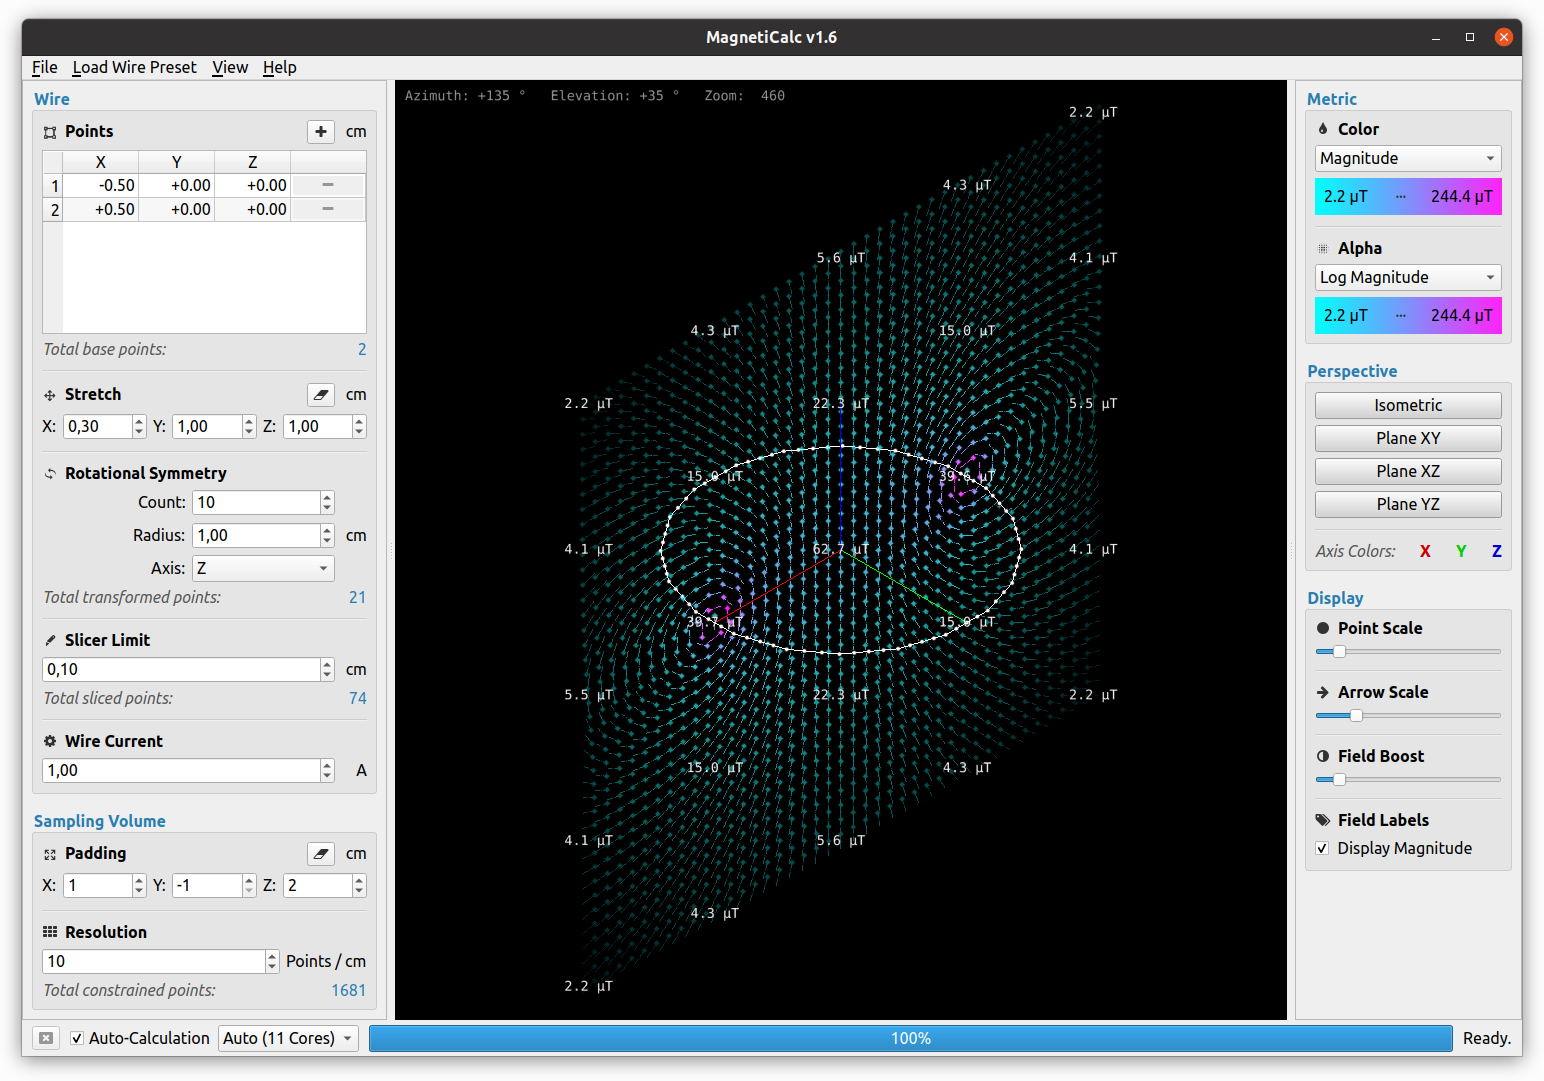
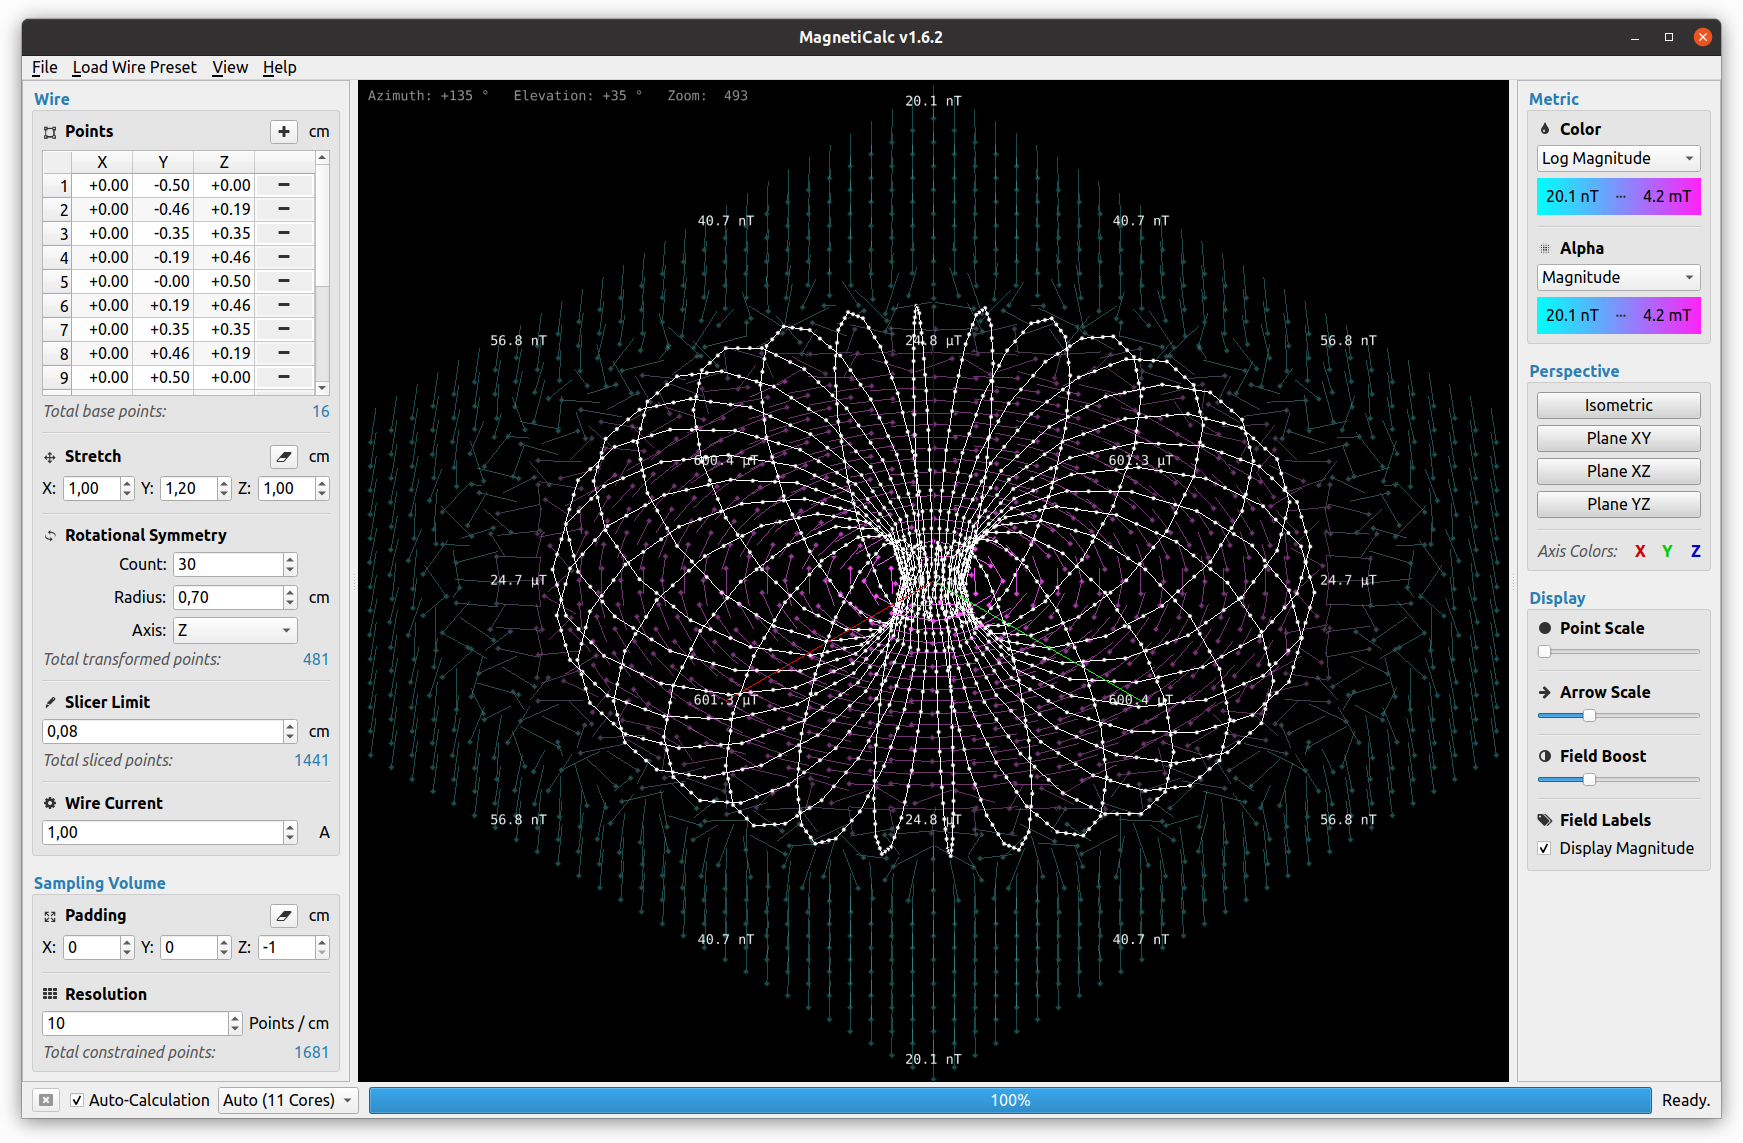
Amended README. Renamed square loop wire presets, added four solenoid presets.

Changed region(s): [[0.0, 0.0, 0.9948, 0.9769]]

diff --git a/magneticalc/Wire.py b/magneticalc/Wire.py
@@ -34,9 +34,9 @@ class Wire:
         ]
     }
 
-    # Preset: A single loop with offset connections.
-    SingleLoop_Offset = {
-        "id": "Single Loop (offset)",
+    # Preset: A single square loop with offset connections.
+    SingleSquareLoop_Offset = {
+        "id": "Single Square Loop (offset)",
         "points": [
             [-1/2, +1/2, +1/2],
             [+0/2, +1/2, +1/2],
@@ -48,9 +48,9 @@ class Wire:
         ]
     }
 
-    # Preset: A single loop with centered connections.
-    SingleLoop_Centered = {
-        "id": "Single Loop (centered)",
+    # Preset: A single square loop with centered connections.
+    SingleSquareLoop_Centered = {
+        "id": "Single Square Loop (centered)",
         "points": [
             [-1/2, +1/2, +0/2],
             [+0/2, +1/2, +0/2],
@@ -63,9 +63,9 @@ class Wire:
         ]
     }
 
-    # Preset: A "compensated" double loop with offset connections.
-    CompensatedDoubleLoop_Offset = {
-        "id": "Compensated Double Loop (offset)",
+    # Preset: A "compensated" double square loop with offset connections.
+    CompensatedDoubleSquareLoop_Offset = {
+        "id": "Compensated Double Square Loop (offset)",
         "points": [
             [-3/6, +1/2, +1/2],
             [-1/6, +1/2, +1/2],
@@ -82,9 +82,9 @@ class Wire:
         ]
     }
 
-    # Preset: A "compensated" double loop with centered connections.
-    CompensatedDoubleLoop_Centered = {
-        "id": "Compensated Double Loop (centered)",
+    # Preset: A "compensated" double square loop with centered connections.
+    CompensatedDoubleSquareLoop_Centered = {
+        "id": "Compensated Double Square Loop (centered)",
         "points": [
             [-3/6, +1/2, +0/2],
             [-1/6, +1/2, +0/2],
@@ -103,13 +103,99 @@ class Wire:
         ]
     }
 
+    # Preset: A single circular loop with offset connections.
+    SingleCircularLoop_Offset = {
+        "id": "Single Circular Loop (offset)",
+        "points": [
+            [
+                0,
+                -np.cos(2 * np.pi * i / 16) / 2,
+                +np.sin(2 * np.pi * i / 16) / 2
+            ]
+            for i in range(16)
+        ]
+    }
+
+    # Preset: A solenoid of 4 circular loops.
+    SolenoidCircularLoops4 = {
+        "id": "Solenoid: 4 circular loops",
+        "points": [
+            [
+                i / 64 - 1 / 2,
+                -np.cos(2 * np.pi * i / 16) / 2,
+                +np.sin(2 * np.pi * i / 16) / 2
+            ]
+            for i in range(64)
+        ]
+    }
+
+    # Preset: A solenoid of 8 circular loops.
+    SolenoidCircularLoops8 = {
+        "id": "Solenoid: 8 circular loops",
+        "points": [
+            [
+                i / 128 - 1 / 2,
+                -np.cos(2 * np.pi * i / 16) / 2,
+                +np.sin(2 * np.pi * i / 16) / 2
+            ]
+            for i in range(128)
+        ]
+    }
+
+    # Preset: A compensated solenoid of 2x 4 circular loops.
+    CompensatedSolenoidCircularLoops4 = {
+        "id": "Compensated Solenoid: 2x 4 circular loops",
+        "points": [
+            [
+                i / 64 - 1 - 0.125 / 2,
+                -np.cos(+2 * np.pi * i / 16) / 2,
+                +np.sin(+2 * np.pi * i / 16) / 2
+            ]
+            for i in range(64)
+        ] +
+        [
+            [
+                i / 64 + 0.125 / 2,
+                -np.cos(-2 * np.pi * (i + 1) / 16) / 2,
+                +np.sin(-2 * np.pi * (i + 1) / 16) / 2
+            ]
+            for i in range(64)
+        ]
+    }
+
+    # Preset: A compensated solenoid of 2x 8 circular loops.
+    CompensatedSolenoidCircularLoops8 = {
+        "id": "Compensated Solenoid: 2x 8 circular loops",
+        "points": [
+            [
+                i / 128 - 1.125,
+                -np.cos(+2 * np.pi * i / 16) / 2,
+                +np.sin(+2 * np.pi * i / 16) / 2
+            ]
+            for i in range(128)
+        ] +
+        [
+            [
+                i / 128 + 0.125,
+                -np.cos(-2 * np.pi * (i + 1) / 16) / 2,
+                +np.sin(-2 * np.pi * (i + 1) / 16) / 2
+            ]
+            for i in range(128)
+        ]
+    }
+
     # List of all above presets
     Presets = [
         StraightLine,
-        SingleLoop_Offset,
-        SingleLoop_Centered,
-        CompensatedDoubleLoop_Offset,
-        CompensatedDoubleLoop_Centered
+        SingleSquareLoop_Offset,
+        SingleSquareLoop_Centered,
+        CompensatedDoubleSquareLoop_Offset,
+        CompensatedDoubleSquareLoop_Centered,
+        SingleCircularLoop_Offset,
+        SolenoidCircularLoops4,
+        SolenoidCircularLoops8,
+        CompensatedSolenoidCircularLoops4,
+        CompensatedSolenoidCircularLoops8
     ]
 
     @staticmethod
@@ -140,6 +226,30 @@ class Wire:
         Debug(self, ": Init")
 
         self._points_base = np.array(points)
+
+        print(self.CompensatedSolenoidCircularLoops8["points"])
+
+        """
+        # Note: This is my playground for creating new wire presets!
+        self._points_base = np.array(
+            [
+                [
+                    i / 128 - 1.125,
+                    -np.cos(+2 * np.pi * i / 16) / 2,
+                    +np.sin(+2 * np.pi * i / 16) / 2
+                ]
+                for i in range(128)
+            ] +
+            [
+                [
+                    i / 128 + 0.125,
+                    -np.cos(-2 * np.pi * (i + 1) / 16) / 2,
+                    +np.sin(-2 * np.pi * (i + 1) / 16) / 2
+                ]
+                for i in range(128)
+            ]
+        )
+        """
 
         self._slicer_limit = slicer_limit
         self._dc = dc

diff --git a/magneticalc/Config.py b/magneticalc/Config.py
@@ -37,7 +37,7 @@ class Config:
     DebugGetters = False
 
     # Default wire preset
-    DefaultWirePreset = "Compensated Double Loop (centered)"
+    DefaultWirePreset = "Single Circular Loop (offset)"
 
     # Default perspective preset
     DefaultPerspectivePreset = "Isometric"
@@ -48,15 +48,15 @@ class Config:
         "auto_calculation"              : "True",
         "num_cores"                     : "0",
         "wire_points_base"              : None,  # Will be set in __init__
-        "wire_stretch"                  : "1.8, 1.0, 0.2",
+        "wire_stretch"                  : "1.0, 1.2, 1.0",
         "wire_slicer_limit"             : "0.1",
         "wire_dc"                       : "1.0",
-        "rotational_symmetry_count"     : "2",
-        "rotational_symmetry_radius"    : "1.0",
+        "rotational_symmetry_count"     : "12",
+        "rotational_symmetry_radius"    : "0.8",
         "rotational_symmetry_axis"      : "2",
-        "sampling_volume_padding"       : "0, 1, -1",
-        "sampling_volume_resolution"    : "10",
-        "color_metric"                  : "Angle YZ",
+        "sampling_volume_padding"       : "0, 0, -1",
+        "sampling_volume_resolution"    : "5",
+        "color_metric"                  : "Log Magnitude",
         "alpha_metric"                  : "Magnitude",
         "field_point_scale"             : "1.0",
         "field_arrow_scale"             : "0.2",

diff --git a/magneticalc/Version.py b/magneticalc/Version.py
@@ -17,7 +17,7 @@
 #  OR IN CONNECTION WITH THE USE OR PERFORMANCE OF THIS SOFTWARE.
 
 
-__VERSION__ = "v1.6.1"
+__VERSION__ = "v1.6.2"
 
 
 class Version:

diff --git a/README.md b/README.md
@@ -49,6 +49,10 @@ Installation
 ------------
 Tested with Python 3.8 in Ubuntu 20.04.
 
+If you have trouble installing MagnetiCalc,
+make sure to file an [issue](https://github.com/shredEngineer/MagnetiCalc/issues)
+so I can help you get it up and running!
+
 ### Prerequisites
 
 The following dependency packages have to be installed first (Ubuntu 20.04):
@@ -137,3 +141,8 @@ Video Demo
 Here is a very short demo of an earlier version of MagnetiCalc in action:
 
 [![Magnetic Field Calculation with Python (MagnetiCalc)](https://raw.githubusercontent.com/shredEngineer/MagnetiCalc/master/docs/Video-Thumb.png)](https://www.youtube.com/watch?v=rsVbu5uF0eU)
+
+Links
+-----
+If you want to comment on the project or see additional info, please visit my personal website:
+https://paulwilhelm.de/magneticalc/
